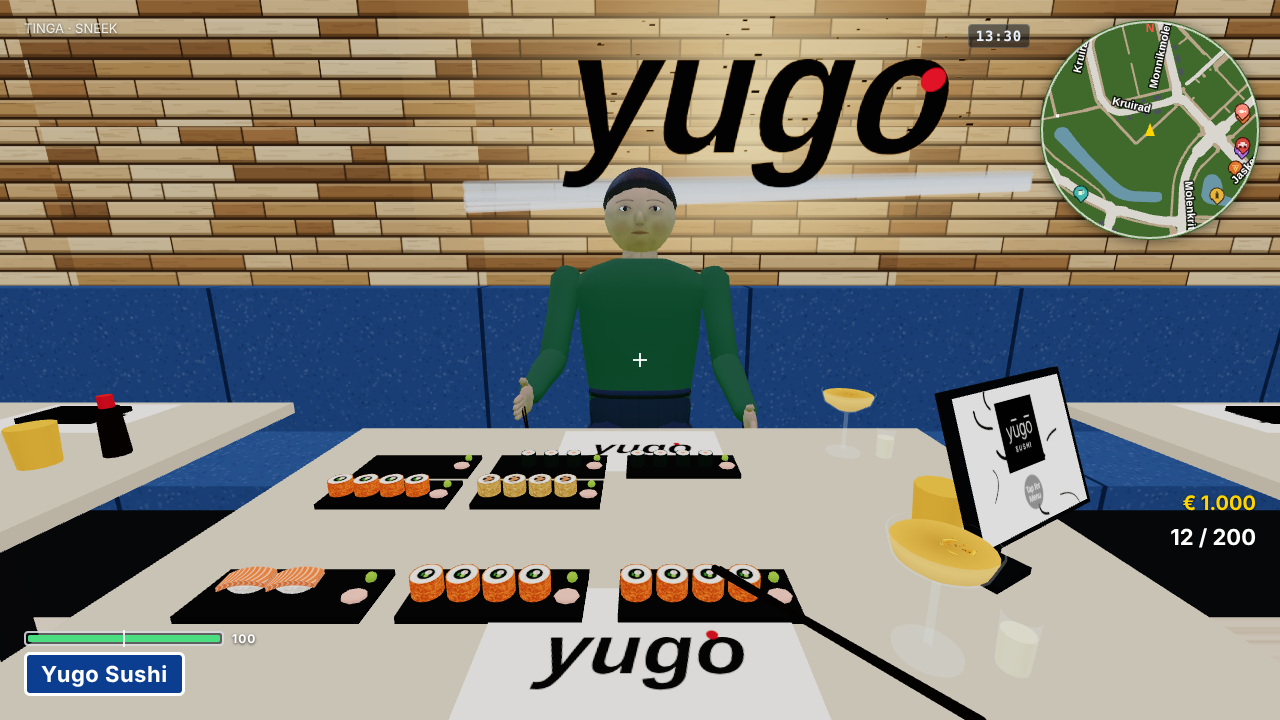
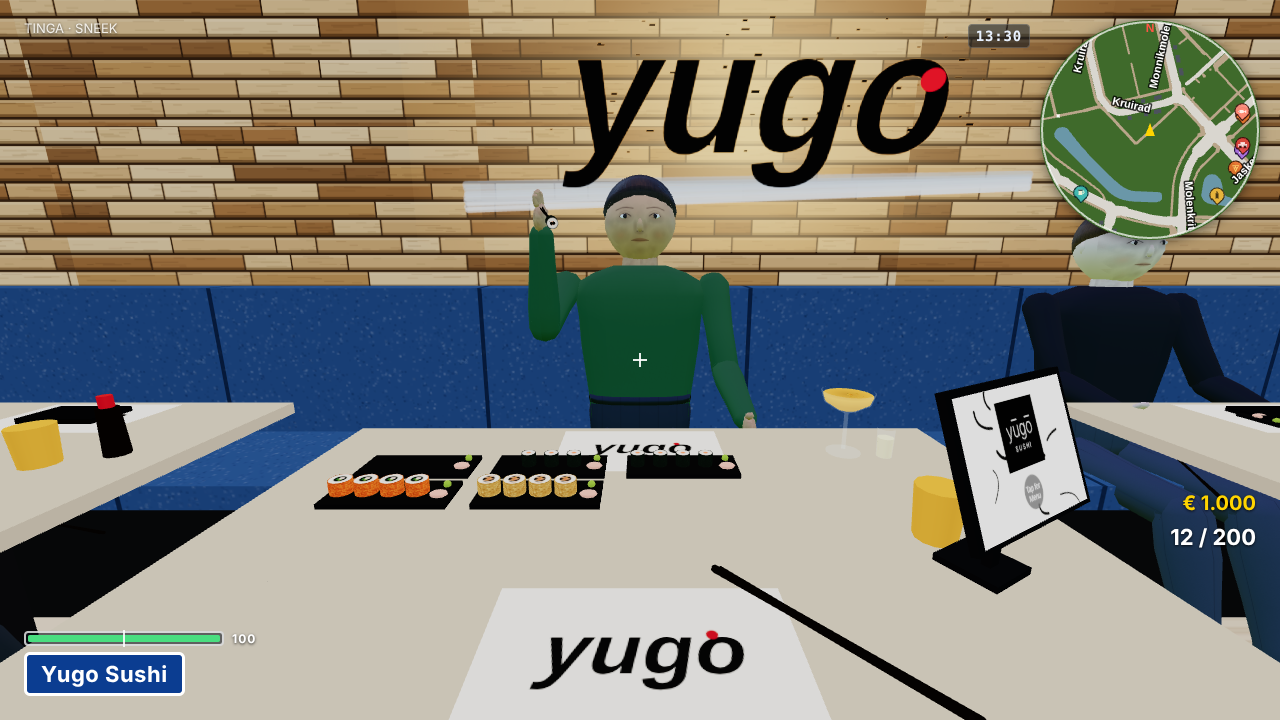
Stap 206: Yugo vol gasten die zelf sushi eten
- Achttien gasten in plaats van vier stille: stelletjes langs de bank,
  vrienden en een gezin met een kind aan de ronde tafels. Ieder een
  plankje sushi voor zich en eet met stokjes, in zijn eigen tempo; een
  leeg plankje wordt na een tijdje bijgevuld.
- De eet-arm van Johan en de gasten in één functie (eetArm); de
  zithouding in de eigen maat (zitting / hoogte), zodat het kind niet
  door de stoel zakt.
- Proef: npm run yugotest groen (ook begin en einde, X, opslaan);
  foto's yugo_zaal en yugo_tafel opnieuw.

Claude-Session: https://claude.ai/code/session_01Qq4V9hLBj33ACehDrT6xv8

diff --git a/js/yugo.js b/js/yugo.js
@@ -819,22 +819,50 @@ export function initYugo({ scene, player, camera, hud, geluid, Persoon }) {
   // de looproute van de ober: de keukendeur, langs de bar, door het gangpad achter het hek, naast onze tafel
   const OBER_PAD = [[KEUKEN.x + 0.5, KEUKEN.z], [2.25, 5.6], [2.25, 2.2], [T.x + T.breed / 2 + 0.25, 2.2], [T.x + T.breed / 2 + 0.25, T.z + 0.1]]
     .map(([x, z]) => wereld(x, z));
+  /*
+   De andere gasten (gevraagd: "laat ook wat andere mensen in Yugo zitten te eten"): stelletjes aan de tafeltjes langs de bank, een
+   gezin en vrienden aan de ronde tafels. Ieder heeft een plankje sushi voor zich en eet in zijn eigen tempo met stokjes: een stuk
+   per 4 à 9 tellen, met de arm naar de mond; is het plankje leeg, dan staat er na een tijdje een nieuw (de ober loopt niet voor
+   ze, dat zou door je eigen bestelling heen lopen). Ze zijn er alleen zolang jij aan tafel zit.
+  */
   const gasten = [];
   {
     const r = rnd(5);
-    const kleding = [[0x8a3b3b, 0x2a2f3a, 0xe0b894], [0x2f4f6f, 0x3a3a3a, 0x8d5a3b], [0xd8d2c4, 0x2d3542, 0xf0c9a8], [0x5b4a7a, 0x222428, 0xc08a62]];
-    const plekken = [[3.2, 0.36, Math.PI], [3.2, 1.68, 0], [12.8, 0.36, Math.PI], [7.4 + 0.78 * Math.sin(0.4), 4.6 + 0.78 * Math.cos(0.4), 0.4]];
+    const kleding = [[0x8a3b3b, 0x2a2f3a, 0xe0b894], [0x2f4f6f, 0x3a3a3a, 0x8d5a3b], [0xd8d2c4, 0x2d3542, 0xf0c9a8], [0x5b4a7a, 0x222428, 0xc08a62],
+      [0x3f6b5a, 0x1f2a36, 0xd9b48f], [0xc9a24a, 0x2b2b2b, 0x6b4630], [0x1d1f24, 0x45505c, 0xf2d0b4], [0xa84a6a, 0x2a2f3a, 0xd3a273]];
+    const rond = (x, z, k) => { const a = k * Math.PI / 2 + 0.4; return [x + Math.sin(a) * 0.78, z + Math.cos(a) * 0.78, a]; };
+    const BANK_Z = 0.36, STOEL_Z = 1.05 + 0.35 + 0.28;
+    const plekken = [
+      [3.2, BANK_Z, Math.PI], [3.2, STOEL_Z, 0], [5.0, BANK_Z, Math.PI], [6.8, BANK_Z, Math.PI], [6.8, STOEL_Z, 0],
+      [8.2, STOEL_Z, 0], [11.2, BANK_Z, Math.PI], [12.8, BANK_Z, Math.PI], [12.8, STOEL_Z, 0],
+      rond(4.4, 4.4, 0), rond(4.4, 4.4, 2), rond(7.4, 4.6, 0), rond(7.4, 4.6, 1),
+      rond(5.6, 7.0, 0), rond(5.6, 7.0, 1), rond(5.6, 7.0, 2), rond(12.3, 6.8, 1), rond(12.3, 6.8, 3),
+    ];
     plekken.forEach(([x, z, yaw], i) => {
       const k = kleding[i % kleding.length];
-      const p = new Persoon({ shirt: k[0], broek: k[1], huid: k[2], haar: r() < 0.5 ? 0x2a1d12 : 0x6b4a2a, vrouw: i % 2 === 1, kapsel: i % 2 ? 'lang' : 'kort' });
+      const kind = i === 14;                          // het gezin aan de ronde tafel heeft een kind
+      const hoogte = kind ? 0.72 : 0.96 + r() * 0.08;
+      const p = new Persoon({ shirt: k[0], broek: k[1], huid: k[2], haar: r() < 0.5 ? 0x2a1d12 : (r() < 0.5 ? 0x6b4a2a : 0xc9a26a),
+        vrouw: i % 2 === 1, kapsel: i % 2 ? (r() < 0.5 ? 'lang' : 'halflang') : (r() < 0.2 ? 'kaal' : 'kort'), baard: !(i % 2) && r() < 0.3 ? 'kort' : 'geen',
+        hoogte });
       scene.add(p.groep);
       const w = wereld(x, z);
       p.zetNeer(w.x, w.z, yaw);
       p.groep.visible = false;
-      gasten.push(p);
+      // het plankje voor hem op tafel, en zijn stokjes
+      const f = { x: -Math.sin(yaw), z: -Math.cos(yaw) };
+      const bord = maakPlankje(SUSHI[i % SUSHI.length].id);
+      bord.position.set(x + f.x * 0.5, T.hoog, z + f.z * 0.5);
+      bord.rotation.y = yaw;
+      bord.visible = false;
+      groep.add(bord);
+      const stok = maakStokjes();
+      stok.rotation.order = 'YXZ';
+      stok.visible = false;
+      groep.add(stok);
+      gasten.push({ p, bord, stok, yaw, kind, hapT: 2 + r() * 7, hap: null, bijT: 0, zit: Y.zitting / hoogte });   // (de zithouding rekent in zijn eigen maat: een kind op dezelfde stoel)
     });
   }
-
   // ---------- de tablet op het scherm ----------
   const tabletEl = maakTabletEl();
   function maakTabletEl() {
@@ -938,7 +966,10 @@ export function initYugo({ scene, player, camera, hud, geluid, Persoon }) {
     st.actief = true; st.ronde = 0; st.gegeten = 0; st.slokken = 0; st.gesprekken = 0; st.praatT = tussen(Y.praat);
     ruimTafel(true);
     johan.groep.visible = true; ober.groep.visible = false;
-    for (const g of gasten) g.groep.visible = true;
+    for (const g of gasten) {
+      g.p.groep.visible = true; g.bord.visible = true; g.stok.visible = true; g.hap = null; g.hapT = 1 + r() * 8;
+      for (const x of g.bord.userData.stukken) x.visible = r() < 0.75;
+    }
     johan.zetNeer(johanPlek.x, johanPlek.z, Math.PI);
     // aan tafel: op de stoel, over de tafel naar Johan en het logo kijkend, een beetje omlaag naar het blad
     const w = wereld(jijStoel.x, jijStoel.z);
@@ -1114,18 +1145,48 @@ export function initYugo({ scene, player, camera, hud, geluid, Persoon }) {
         if (s) st.johanHap = { t: 0, stuk: s, op: false };
       }
     }
-    johan.update(dt, { zit: Y.zitting });
-    // de rechterarm: van het blad naar de mond
-    johan.armRechts.boven.rotation.x = 0.55 + hap * 0.75;
-    johan.armRechts.onder.rotation.x = 0.85 + hap * 1.15;
-    johan.groep.updateWorldMatrix(true, true);
-    const hand = new THREE.Vector3(0, -0.07, 0).applyMatrix4(johan.armRechts.eind.matrixWorld);
-    johanStokjes.position.copy(hand).sub(groep.position);
-    johanStokjes.rotation.set(-0.9 - hap * 0.5, 0, 0.3);
-    // een stuk tussen zijn stokjes zolang hij het naar zijn mond brengt
-    const vast = johanStokjes.userData.vast;
-    if (h && !h.op) { if (!vast.userData.stuk) { const k = maakStuk(h.stuk.userData.soort); vast.add(k); vast.userData.stuk = k; } }
+    johan.update(dt, { zit: Y.zitting / 1.05 });
+    eetArm(johan, johanStokjes, hap, Math.PI, h && !h.op ? h.stuk.userData.soort : null);
+  }
+  /*
+   De rechterarm van iemand aan tafel, van het blad naar de mond (`hap` 0…1), met de stokjes in zijn hand en zolang `soort` een stuk
+   sushi ertussen. `yaw` is zijn draaiing: de stokjes wijzen voor hem uit, omlaag.
+  */
+  const handPunt = new THREE.Vector3();
+  function eetArm(p, stok, hap, yaw, soort) {
+    p.armRechts.boven.rotation.x = 0.55 + hap * 0.75;
+    p.armRechts.onder.rotation.x = 0.85 + hap * 1.15;
+    p.groep.updateWorldMatrix(true, true);
+    handPunt.set(0, -0.07, 0).applyMatrix4(p.armRechts.eind.matrixWorld);
+    stok.position.copy(handPunt).sub(groep.position);
+    stok.rotation.order = 'YXZ';
+    stok.rotation.set(-0.9 - hap * 0.5, yaw - Math.PI, 0.3);
+    const vast = stok.userData.vast;
+    if (soort) { if (!vast.userData.stuk) { const k = maakStuk(soort); vast.add(k); vast.userData.stuk = k; } }
     else if (vast.userData.stuk) { vast.remove(vast.userData.stuk); vast.userData.stuk = null; }
+  }
+  // de gasten eten mee, elk in zijn eigen tempo
+  function werkGastenBij(dt) {
+    for (const g of gasten) {
+      let hap = 0, soort = null;
+      if (g.hap) {
+        g.hap.t += dt;
+        hap = Math.sin(Math.min(1, g.hap.t / 1.2) * Math.PI);
+        if (!g.hap.op && g.hap.t > 0.6) { g.hap.op = true; g.hap.stuk.visible = false; }
+        else if (!g.hap.op) soort = g.hap.stuk.userData.soort;
+        if (g.hap.t > 1.2) g.hap = null;
+      } else {
+        g.hapT -= dt;
+        const s = g.bord.userData.stukken.find(x => x.visible);
+        if (!s) {
+          // leeg: na een tijdje een vol plankje
+          g.bijT += dt;
+          if (g.bijT > 25) { g.bijT = 0; for (const x of g.bord.userData.stukken) x.visible = true; }
+        } else if (g.hapT <= 0) { g.hapT = 4 + r() * 5; g.hap = { t: 0, stuk: s, op: false }; }
+      }
+      g.p.update(dt, { zit: g.zit });
+      eetArm(g.p, g.stok, hap, g.yaw, soort);
+    }
   }
   // de ober loopt het pad af, zet neer, en loopt terug
   function werkOberBij(dt) {
@@ -1170,7 +1231,7 @@ export function initYugo({ scene, player, camera, hud, geluid, Persoon }) {
     werkStokjesBij(dt);
     werkJohanBij(dt);
     werkOberBij(dt);
-    for (const g of gasten) g.update(dt, { zit: Y.zitting });
+    werkGastenBij(dt);
     // de muziek
     if (geluid && geluid.yugoMuziek) geluid.yugoMuziek(dt, true);
     const balkVrij = !st.cb || !st.cb.balkVrij || st.cb.balkVrij();
@@ -1223,7 +1284,7 @@ export function initYugo({ scene, player, camera, hud, geluid, Persoon }) {
     stokjes.visible = false;
     if (st.stok && st.stok.stuk && st.stok.ouder) { st.stok.ouder.add(st.stok.stuk); }
     johan.groep.visible = false; ober.groep.visible = false;
-    for (const g of gasten) g.groep.visible = false;
+    for (const g of gasten) { g.p.groep.visible = false; g.bord.visible = false; g.stok.visible = false; g.hap = null; eetArm(g.p, g.stok, 0, g.yaw, null); }
     if (player.zit) { player.zit = false; player.eye = player.eyeStaand; }
     player.aanTafel = false;
     if (geluid && geluid.yugoMuziek) geluid.yugoMuziek(0, false);
@@ -1253,6 +1314,8 @@ export function initYugo({ scene, player, camera, hud, geluid, Persoon }) {
     },
     get plekken() { return { nul: NUL, tafel: wereld(T.x, T.z), stoel: wereld(jijStoel.x, jijStoel.z), johan: johanPlek, keuken: KEUKEN_W, pad: OBER_PAD }; },
     get maten() { return { ...YUGO, stoelen: stoelen.length, emmers: emmers.length, gasten: gasten.length }; },
+    // voor de proef: de gasten, hun plankje en hoeveel ze op hebben
+    get gasten() { return gasten.map(g => ({ x: g.p.groep.position.x, z: g.p.groep.position.z, yaw: g.yaw, zichtbaar: g.p.groep.visible, kind: g.kind, bord: g.bord, stok: g.stok, persoon: g.p, over: g.bord.userData.stukken.filter(x => x.visible).length, hapt: !!g.hap })); },
     get johan() { return johan; }, get ober() { return ober; }, get stokjes() { return stokjes; }, get groep() { return groep; },
     get tabletEl() { return tabletEl; },
   };

diff --git a/CLAUDE.md b/CLAUDE.md
@@ -125,7 +125,7 @@ Deze gelden altijd, ook als ze niet opnieuw genoemd worden.
 | `js/vouwwagen.js` | stap 184: een uitgeklapte vouwwagen op het gras aan de Wieken (`maakVouwwagen`, `initVouwwagen`; de plek `VOUWWAGEN` in js/bouwvlak.js, gezocht over de kaartdata, met een gedraaide doos in `inBouwvlak`; op de `y` van het grasvlak via `vlakOp`); `__game.vouwwagen` |
 | `js/omstanders.js` | stap 188: omstanders die je kunt raken buiten de vaste doelenlijsten: `registreer(persoon, { wie, mag, opNeer, opTerug })` (alleen gewone omstanders: de zeilers, de plezierboot, het terras, de klanten van de supermarkt; wie een rol heeft, zoals Sjoerd, de BP-medewerker, de verkopers en het personeel, bewust niet), `doelen`/`raak` in het schot, het mes en `explosieRaakt`, `update` na de modules (omvallen, na `OMSTANDER.terug` weer op), `isNeer` |
 | `js/praatjes.js` | stap 192: de praatjes van Mark en Johan (`PRAATJES`, regels als [wie, tekst]) en `kiesPraatje` (nooit een van de laatste vier); js/verhaal.js zet `praatMark` op de stoep van Molenkrite 15 en `praatJohan` op de oprit van Kruirad 62 als het verhaal ze niet nodig heeft (`praatHoort`, `praatBotst`, alleen uit de buurt wisselen), E = `praatjeToets`; na het einde keuze 3 in het uitje; `verhaal.praatjes` voor proeven |
-| `js/yugo.js` | stap 204: sushi eten bij Yugo met Johan — de zaal buiten de kaart (`NUL` = gebied + (800, 1250)) naar de foto's: steenstrips met het verlichte penseellogo (`tekenWandLogo`), blauwe bank, emmerlampen, hek, ronde tafels, sushibar met keukendeur, gasten; de tablet (`#yugoTablet`, `tekenLogo`, `tekenGerecht`: 1–4 sushi uit `SUSHI`, 5 `DRANK` Pornstar Martini, 0 wissen, 6/E bestellen, hoogstens `YUGO.maxSushi`), de ober over `OBER_PAD`, de plankjes op tafel (`plekOpTafel`), eten met stokjes aan de camera (E, `werkStokjesBij`), Q een slok, Johan eet zelf en bestelt altijd meer (`johanKeuze`), vijf rondes, `YUGO_TEKST`; een binnenruimte in js/main.js (`yugoZaal`), het verloop in js/verhaal.js (het blok `yugo`: het voorstel bij het eerste praatje met Johan en na elk praatje over Yugo, 1/2 via `kiesHuis`, "Die avond, bij Yugo in Sneek…" om 19:00 met de klok stil, X = `yugoAfbreken`, terug op de oprit van Kruirad 62; opslag `yugoGevraagd`, `yugoKeer`); sinds stap 205 `player.aanTafel` (geen wapen trekken, wisselen, herladen, richten of schieten tot je weg bent) en de gesprekken tussen Johan en Erik (`YUGO_TEKST.gesprekken` met `als`, de stand uit `onderwerpen` in js/verhaal.js; `kiesGesprek`); het muziekje `geluid.yugoMuziek` (`YUGO_MUZIEK`, koto en fluit, gemaakt) |
+| `js/yugo.js` | stap 204: sushi eten bij Yugo met Johan — de zaal buiten de kaart (`NUL` = gebied + (800, 1250)) naar de foto's: steenstrips met het verlichte penseellogo (`tekenWandLogo`), blauwe bank, emmerlampen, hek, ronde tafels, sushibar met keukendeur, gasten; de tablet (`#yugoTablet`, `tekenLogo`, `tekenGerecht`: 1–4 sushi uit `SUSHI`, 5 `DRANK` Pornstar Martini, 0 wissen, 6/E bestellen, hoogstens `YUGO.maxSushi`), de ober over `OBER_PAD`, de plankjes op tafel (`plekOpTafel`), eten met stokjes aan de camera (E, `werkStokjesBij`), Q een slok, Johan eet zelf en bestelt altijd meer (`johanKeuze`), vijf rondes, `YUGO_TEKST`; een binnenruimte in js/main.js (`yugoZaal`), het verloop in js/verhaal.js (het blok `yugo`: het voorstel bij het eerste praatje met Johan en na elk praatje over Yugo, 1/2 via `kiesHuis`, "Die avond, bij Yugo in Sneek…" om 19:00 met de klok stil, X = `yugoAfbreken`, terug op de oprit van Kruirad 62; opslag `yugoGevraagd`, `yugoKeer`); sinds stap 205 `player.aanTafel` (geen wapen trekken, wisselen, herladen, richten of schieten tot je weg bent) en de gesprekken tussen Johan en Erik (`YUGO_TEKST.gesprekken` met `als`, de stand uit `onderwerpen` in js/verhaal.js; `kiesGesprek`); sinds stap 206 achttien gasten die zelf eten (`gasten`, `werkGastenBij`, `eetArm`; de zithouding als `zitting / hoogte`); het muziekje `geluid.yugoMuziek` (`YUGO_MUZIEK`, koto en fluit, gemaakt) |
 | `js/statistiek.js` | stap 195: de statistieken over het hele spel (`werkBij` uit de hoofdlus, `tel` uit `shootCb` en `autoOntploft`, `regels`, `bewaar`/`herstel` in de opslag, `opnieuw` na een checkpoint, `nieuw`); het paneel in het pauzemenu (`menu.zetStatistiek`), "Jouw spel in cijfers" in de titelrol (`verhaal.voortgang`); `__game.statistiek`. Het ontwerp voor de geocache staat in docs/ontwerp-geocache.md (nog niet gebouwd) |
 | `js/geocache.js` | stap 196: de Tinga Cache — vijf caches (`CACHE`, `zoekVrij` met `inPand`), de omrekening naar graden en minuten (`maakOmrekening`, `tekstN`/`tekstE`), de GPS op canvas (`#gpsToestel`, N aan/uit, cijfers en backspace via js/main.js), Sjors op de stoep van Radio Tinga (`hud.zetSjors`), de posters (BP-balie, prikbord Radio Tinga, eettafels), het bordje van de multi, de beloning (€ 2.500 en `zetGoud` op de M1 in js/wapen.js); de GPS aan de BP-kassa (3, `gps` in js/bpkassa.js); opslag via `registreerOpslag` (js/opslag.js); `__game.geocache`; sinds stap 197 de GPS in 3D in je linkerhand (`maakToestel`, `GPS3D`, op de wapenlaag aan de camera, het scherm het canvas `lcd`; js/main.js tekent de wapenlaag ook als `geocache.inBeeld`) met `player.gpsInHand`/`gpsPak`/`gpsWeg`/`opGpsWeg`/`gpsDichtbij` in js/player.js (geen wapen, niet schieten; klikken, R, een wapen kiezen of H stopt hem weg; rechts dichterbij), en de gouden M1 met echte doeken van goud (`goudDoek`, `goudStempelDoek`, `stempelLetters` in js/wapen.js); sinds stap 198 de posters bij het opstarten (ook zonder GPS) en de caches pas met GPS én na Sjors (`st.intro` in `huidig` en `werkZichtBij`); `npm run cacheplekshots` fotografeert de vijf plekken; sinds stap 199 pas na missie 5 (`kan` = `verhaal.na5`: de GPS aan de kassa via `gps.kan`, en de posters), niet in missie 18 (`sjorsWeg` = `verhaal.sjorsInStudio`), bij Sjors wijkt de R van Roan (`verhaal.zetRoanWijkt`), en met een keuze open laat de GPS de cijfers met rust; sinds stap 200 staat cache 4 op een meerpaal in het water (`zoekPaal`, `PAAL`: bevaarbaar, ≥ 3 m van de oever) |
 | `js/schaduw.js` | missie 15: de route van Bouwman (BP → Duinterpen → N7), zijn rit met een stop, de loods aan het water met container, kade, steiger en boot, de fotoplekken |

diff --git a/docs/METHODIEK.md b/docs/METHODIEK.md
@@ -9317,6 +9317,17 @@ op. Verder, auto tuning kan je ook bij de balie van de autogarage aanvragen ipv 
 met hekken en rijdend, door de berm en lopend er niet langs, de tuning aan de balie met en zonder auto, de zuil weg);
 `wensen5test` (de tuning, nu aan de balie), `geldracetest` en `bpkassatest` blijven groen.
 
+**Yugo vol gasten (stap 206, 16 okt).** Gevraagd: "Laat ook wat andere mensen in Yugo zitten te eten." Er zaten vier gasten
+stil op hun plek; nu achttien: stelletjes aan de tafeltjes langs de bank, vrienden en een gezin met een kind aan de ronde tafels.
+Ieder heeft een plankje sushi voor zich (op het tafelblad, in zijn kijkrichting) en eet met stokjes in zijn rechterhand, een stuk
+per 4 à 9 tellen; een leeg plankje is na 25 tellen weer vol (de ober loopt niet voor ze: die zou je eigen bestelling in de weg
+lopen). De arm en de stokjes van Johan en de gasten gaan nu door één functie (`eetArm`, met de draaiing van wie er zit). De zithouding
+rekent in de eigen maat van een persoon: wie kleiner is (het kind) krijgt `zitting / hoogte`, anders zakte hij door de stoel.
+Alles wordt bij het opstarten gebouwd; de proef telt geen nieuw programma.
+
+*Proef*: `npm run yugotest` (erbij: minstens veertien gasten met een kind, iedereen op zithoogte, elk plankje op een tafel en voor
+de gast, niemand op een ander, happen met de stokjes in de hand, en na het etentje weer weg); foto's `yugo_zaal`, `yugo_tafel`.
+
 **Yugo: geen wapen aan tafel, en Johan en Erik praten (stap 205, 16 okt).** Gevraagd: "Bouw het restaurant ergens buiten de wereld
 en teleporteer de speler erheen. Geen wapen kunnen trekken totdat je weer weg bent. Johan en Erik praten over werk (De Veteraan,
 missies), de nieuwe No Mercy-film die uitkomt, het weer, over Erik Jan, hoe het met hem is (het broertje van Johan), over weer eens

diff --git a/README.md b/README.md
@@ -1020,6 +1020,7 @@ geven ze wat leven. Johan eet in zijn eigen tempo mee en praat tussendoor. Na vi
 rekening en trakteert hij. Je kunt altijd weggaan met **X**: "Johan, sorry, maar ik moet morgen vroeg op. Ik ga die kant op." Je
 staat dan weer bij Johan op de oprit. Er speelt een Japans muziekje.
 
+Het is druk bij Yugo: aan de andere tafels zitten stelletjes, vrienden en een gezin met een kind ook sushi te eten met stokjes.
 Aan tafel blijft je wapen weg tot je weer buiten staat. Ondertussen praten Johan en Erik bij: over het werk en De Veteraan, de
 nieuwe No Mercy-film van Erik Jan, hoe het met Erik Jan gaat (het broertje van Johan), over weer eens een dagje weg met Mark en Erik
 Jan, net als de laatste keer naar Texel, en over het weer.
